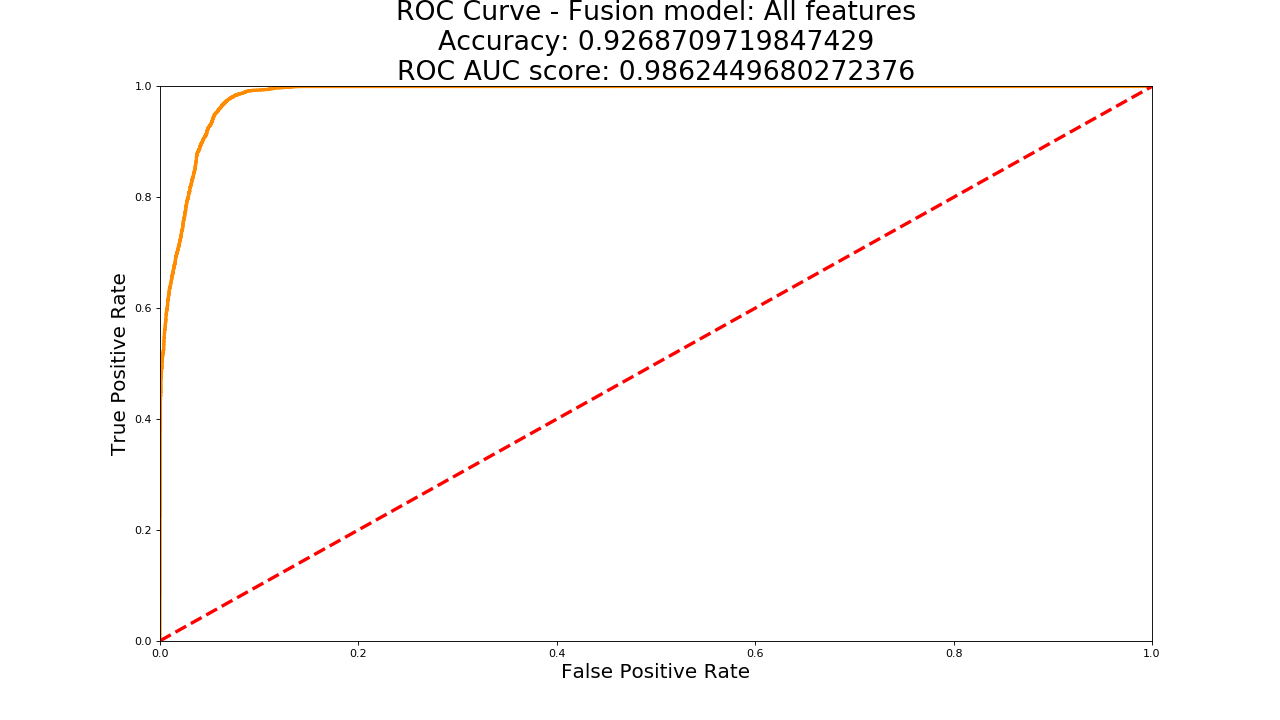
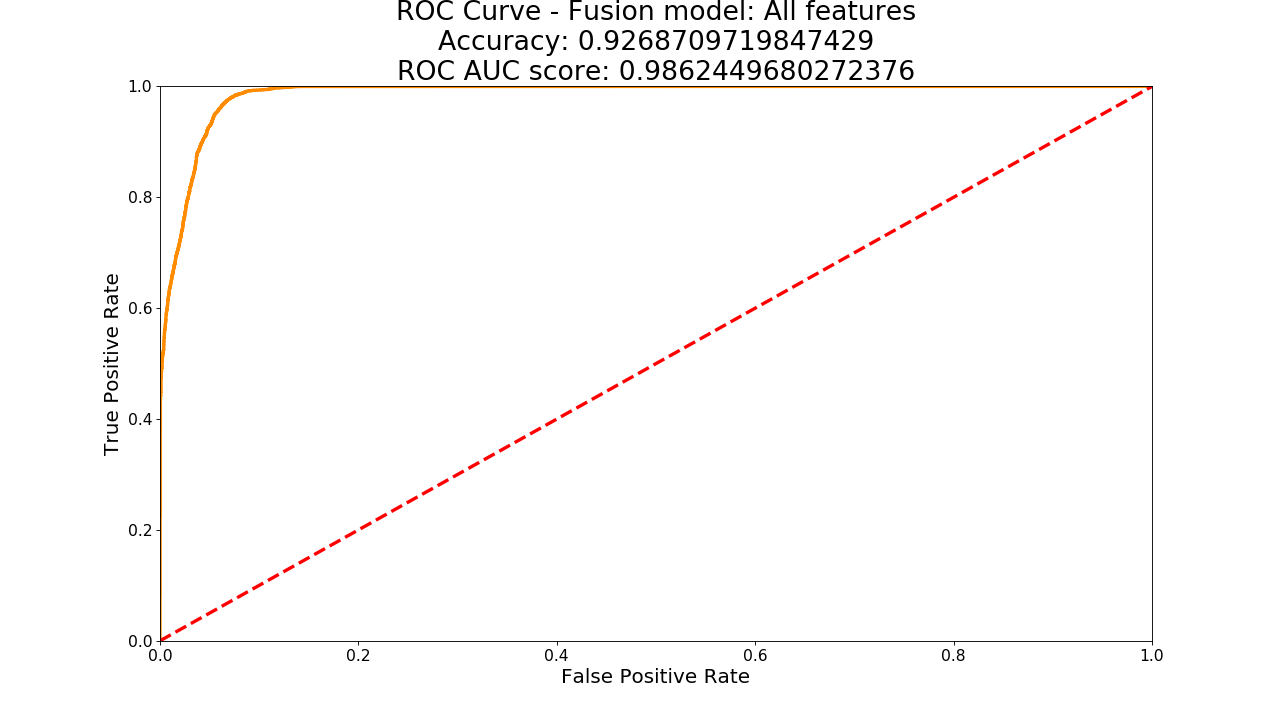
Improve text visibility in plots.

diff --git a/statistics.py b/statistics.py
@@ -10,11 +10,13 @@ from sklearn.metrics import accuracy_score, confusion_matrix, roc_auc_score, roc
 
 def generate_distribution_plot(vector, name, file):
     plt.figure(figsize=(16, 9), dpi=1280 // 16)
-    plt.suptitle('Distribution plot for ' + name.lower(), fontsize=24)
+    plt.suptitle('Distribution plot for ' + name, fontsize=24)
     plt.subplot(1, 2, 1)
-    plt.title('Histogram for ' + name.lower(), fontsize=18)
+    plt.title('Histogram for ' + name, fontsize=18)
     plt.hist(vector, bins='sturges', color='darkorange', edgecolor='black', density=True)
     plt.xlabel(name, fontsize=18)
+    plt.xticks(fontsize=14)
+    plt.yticks(fontsize=14)
     x = np.arange(min(vector), max(vector), 0.01, dtype='float')
     kernel = gaussian_kde(vector)
     kernel.covariance_factor = lambda: 0.25
@@ -22,12 +24,13 @@ def generate_distribution_plot(vector, name, file):
     density = kernel.evaluate(x)
     plt.plot(x, density, color='red', linewidth=3)
     plt.subplot(1, 2, 2)
-    plt.title('Boxplot for ' + name.lower() + '\nMedian: ' + str(np.percentile(vector, 50)), fontsize=14)
+    plt.title('Boxplot for ' + name + '\nMedian: ' + str(np.percentile(vector, 50)), fontsize=14)
     plt.boxplot(vector, patch_artist=True, boxprops={'facecolor': 'darkorange'},
                 medianprops={'color': 'black', 'linewidth': 3},
                 flierprops={'marker': 'o', 'markerfacecolor': 'red', 'markersize': 6})
     plt.xticks([])
     plt.xlabel(name, fontsize=18)
+    plt.yticks(fontsize=14)
     plt.savefig(file, dpi="figure")
 
 
@@ -43,7 +46,9 @@ def get_confusion_matrix_and_plot_roc_curve(predicted_labels, predicted_label_pr
     plt.xlim([0, 1])
     plt.ylim([0, 1])
     plt.xlabel('False Positive Rate', fontsize=18)
+    plt.xticks(fontsize=14)
     plt.ylabel('True Positive Rate', fontsize=18)
+    plt.yticks(fontsize=14)
     plt.title('ROC Curve - ' + str(name) +
               '\nAccuracy: ' + str(accuracy) +
               '\nROC AUC score: ' + str(roc_score),
@@ -70,7 +75,7 @@ if __name__ == "__main__":
     draw_network(sus_network_reduced,
                  "Subreddit-user-Subreddit network", "plots/sus_network.png",
                  draw_node_labels=True)
-    generate_distribution_plot(sus_degrees, 'Node degree in subreddit network',
+    generate_distribution_plot(sus_degrees, 'Node degree in SuS network',
                                "plots/sus_node_degree_distribution.png")
 
     usu_network = nx.read_gpickle('data/networks/UsU')
@@ -82,7 +87,7 @@ if __name__ == "__main__":
     draw_network(usu_network_reduced,
                  "User-subreddit-user network", "plots/usu_network.png",
                  draw_node_labels=True)
-    generate_distribution_plot(usu_degrees, 'Node degree in user network', "plots/usu_node_degree_distribution.png")
+    generate_distribution_plot(usu_degrees, 'Node degree in UsU network', "plots/usu_node_degree_distribution.png")
 
     usu_community_membership = load_object("data/features/UsU_community_membership")
     sus_community_membership = load_object("data/features/SuS_community_membership")
